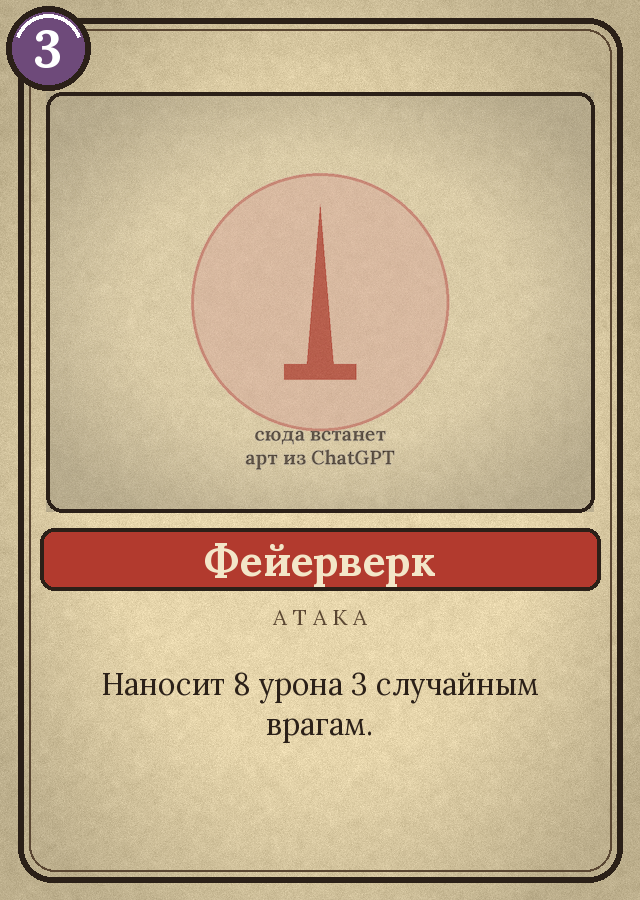
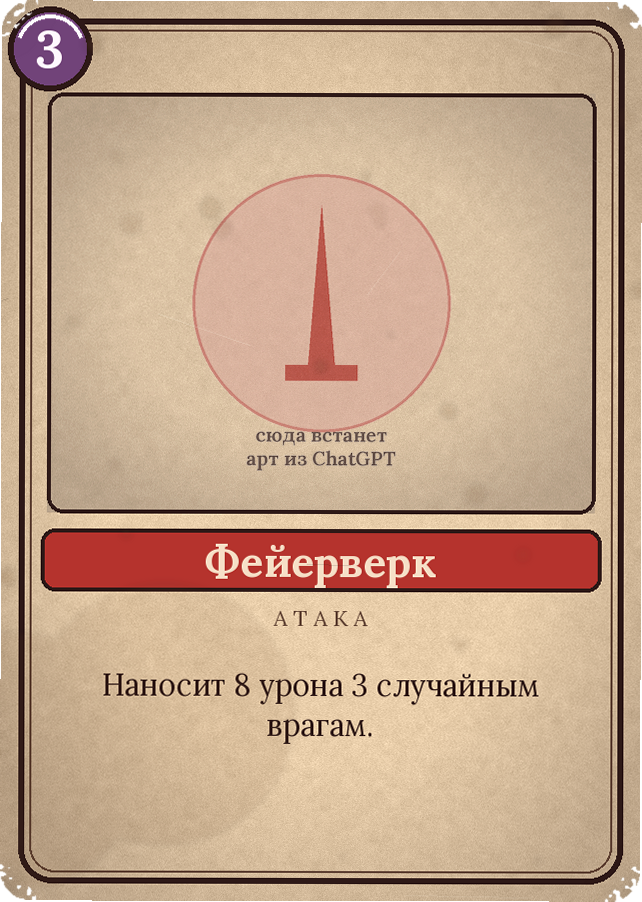
Add wear/distress and shop showcase to style-forge
- Per-card deterministic distress (seeded by card id): foxing spots,
  stains, scratches, darkened worn edges and frayed rounded corners,
  plus a small paper-tone jitter and slight rotation so no two cards
  look like identical stamps.
- New `shop` command: renders priced cards on a procedural wooden
  shelf, each tilted on a stand with a coin price plate underneath,
  matching the reference shop screen.
- Price moved off the card face (shown only on the shop plate).

diff --git a/style-forge/forge.py b/style-forge/forge.py
@@ -17,8 +17,9 @@ style-forge — инструмент единого стиля для карто
 import argparse
 import json
 import os
+import zlib
 import numpy as np
-from PIL import Image, ImageDraw, ImageFont
+from PIL import Image, ImageDraw, ImageFont, ImageFilter
 
 HERE = os.path.dirname(os.path.abspath(__file__))
 
@@ -121,6 +122,108 @@ def fit_contain(img, box):
     return img.resize((max(1, int(iw * s)), max(1, int(ih * s))), Image.LANCZOS)
 
 
+# ────────────────────────────────────────────────────────── износ
+
+def card_seed(card):
+    """Стабильный сид на карту → каждая портится по-своему, но воспроизводимо."""
+    return zlib.crc32(card["id"].encode()) & 0xFFFFFFFF
+
+
+def rounded_mask(w, h, r):
+    m = Image.new("L", (w, h), 0)
+    ImageDraw.Draw(m).rounded_rectangle([0, 0, w - 1, h - 1], radius=r, fill=255)
+    return m
+
+
+def fray_edges(mask, strength):
+    """Отгрызает случайные кусочки по краю маски — рваная бумага."""
+    w, h = mask.size
+    m = np.asarray(mask).astype(np.float32) / 255.0
+    blur = np.asarray(mask.filter(ImageFilter.GaussianBlur(8))).astype(np.float32) / 255.0
+    band = (blur > 0.03) & (blur < 0.97)
+    small = np.random.rand(max(2, h // 4), max(2, w // 4))
+    noise = np.asarray(Image.fromarray((small * 255).astype("uint8")).resize((w, h))).astype(np.float32) / 255.0
+    m[band & (noise < 0.5 * strength)] = 0.0
+    soft = Image.fromarray((m * 255).astype("uint8")).filter(ImageFilter.GaussianBlur(0.6))
+    return np.asarray(soft).astype(np.float32) / 255.0
+
+
+def distress(img, cfg):
+    """Пятна, разводы, царапины, тёмные потёртые края, рваный контур."""
+    w = cfg["wear"]
+    W, H = img.size
+
+    # пятна и разводы — на мягком слое
+    soft = Image.new("RGBA", (W, H), (0, 0, 0, 0))
+    sd = ImageDraw.Draw(soft)
+    sc = hex2rgb(w["spot_color"])
+    for _ in range(w["spots"]):
+        r = np.random.randint(3, 12)
+        x, y = np.random.randint(0, W), np.random.randint(0, H)
+        sd.ellipse([x - r, y - r, x + r, y + r], fill=sc + (int(np.random.randint(18, 50)),))
+    st = hex2rgb(w["stain_color"])
+    for _ in range(w["stains"]):
+        R = np.random.randint(70, 140)
+        x = np.random.randint(0, W // 3) if np.random.rand() < 0.5 else np.random.randint(2 * W // 3, W)
+        y = np.random.randint(0, H // 3) if np.random.rand() < 0.5 else np.random.randint(2 * H // 3, H)
+        sd.ellipse([x - R, y - R, x + R, y + R], fill=st + (int(np.random.randint(12, 26)),))
+    img = Image.alpha_composite(img, soft.filter(ImageFilter.GaussianBlur(3)))
+
+    # царапины — тонкие резкие линии
+    scr = Image.new("RGBA", (W, H), (0, 0, 0, 0))
+    cd = ImageDraw.Draw(scr)
+    for _ in range(w["scratches"]):
+        x1, y1 = np.random.randint(0, W), np.random.randint(0, H)
+        x2, y2 = x1 + np.random.randint(-130, 130), y1 + np.random.randint(-45, 45)
+        a = int(np.random.randint(22, 46))
+        col = (255, 250, 235, a) if np.random.rand() < 0.5 else (28, 20, 12, a)
+        cd.line([x1, y1, x2, y2], fill=col, width=1)
+    img = Image.alpha_composite(img, scr)
+
+    # тёмные потёртые края + рваный контур
+    arr = np.asarray(img).astype(np.float32)
+    ring = 1.0 - np.asarray(rounded_mask(W, H, w["corner_radius"]).filter(
+        ImageFilter.GaussianBlur(15))).astype(np.float32) / 255.0
+    arr[..., :3] *= (1 - w["edge_darken"] * ring[..., None])
+    arr[..., 3] *= fray_edges(rounded_mask(W, H, w["corner_radius"]), w["fray"])
+    return Image.fromarray(np.clip(arr, 0, 255).astype("uint8"), "RGBA")
+
+
+# ────────────────────────────────────────────────────────── дерево (магазин)
+
+def make_wood(w, h, cfg):
+    s = cfg["shop"]
+    top, bot = np.array(hex2rgb(s["wood_top"]), np.float32), np.array(hex2rgb(s["wood_bottom"]), np.float32)
+    yy = np.linspace(0, 1, h)[:, None, None]
+    img = np.repeat(top * (1 - yy) + bot * yy, w, axis=1)
+    img += np.random.normal(0, 6, (h, w, 1))                       # зерно
+    img += np.random.normal(0, 1, (1, w, 1)) * 5                   # вертикальные волокна
+    for py in range(70, h, 96):                                    # стыки досок
+        img[py:py + 2, :, :] *= 0.55
+    xx = np.linspace(-1, 1, w)[None, :, None]
+    yv = np.linspace(-1, 1, h)[:, None, None]
+    glow = np.clip(1 - np.sqrt(xx ** 2 + (yv + 0.5) ** 2), 0, 1)[..., None]
+    img += glow[..., 0] * np.array(hex2rgb(s["glow"]), np.float32) * 0.28
+    return Image.fromarray(np.clip(img, 0, 255).astype("uint8"), "RGB").convert("RGBA")
+
+
+def draw_price_plate(base, cx, top, price, cfg):
+    d = ImageDraw.Draw(base, "RGBA")
+    pw, ph = 152, 62
+    x0, y0 = cx - pw // 2, top
+    d.rounded_rectangle([x0, y0, x0 + pw, y0 + ph], radius=14,
+                        fill=hex2rgb(cfg["shop"]["plate_color"]) + (240,), outline=(18, 12, 7), width=3)
+    cy = y0 + ph // 2
+    cr = 19
+    coin_x = x0 + 34
+    d.ellipse([coin_x - cr, cy - cr, coin_x + cr, cy + cr], fill=hex2rgb(cfg["coin_color"]), outline=(18, 12, 7), width=3)
+    d.ellipse([coin_x - cr + 6, cy - cr + 6, coin_x + cr - 6, cy + cr - 6], outline=(18, 12, 7), width=2)
+    f = font(cfg, "number", 34)
+    s = str(price)
+    asc, desc = f.getmetrics()
+    d.text((coin_x + cr + 12, cy - (asc + desc) / 2), s, font=f, fill=(240, 224, 190))
+
+
 # ────────────────────────────────────────────────────────── плейсхолдер
 
 def placeholder_subject(card, cfg, size=760):
@@ -189,6 +292,7 @@ def draw_coin(base, x, y, r, number, cfg):
 # ────────────────────────────────────────────────────────── карта
 
 def make_card(card, subject, cfg):
+    np.random.seed(card_seed(card))          # каждая карта портится по-своему
     W, H = cfg["card"]["width"], cfg["card"]["height"]
     ink = hex2rgb(cfg["card"]["ink"])
     ink_soft = hex2rgb(cfg["card"]["ink_soft"])
@@ -243,11 +347,13 @@ def make_card(card, subject, cfg):
     ecol = cfg["energy_colors"].get(str(card["cost"]), cfg["energy_colors"]["default"])
     draw_gem(img, m + 30, m + 30, 42, card["cost"], ecol, cfg)
 
-    # цена (монета справа снизу), если есть
-    if "price" in card:
-        draw_coin(img, W - m - 40, H - m - 40, 40, card["price"], cfg)
+    # лёгкий сдвиг тона на карту — чтобы бумага не была одинаковой у всех
+    jit = cfg["wear"]["tone_jitter"]
+    arr = np.asarray(img).astype(np.float32)
+    arr[..., :3] += np.random.uniform(-jit, jit, 3)
+    img = Image.fromarray(np.clip(arr, 0, 255).astype("uint8"), "RGBA")
 
-    return img
+    return distress(img, cfg)
 
 
 # ────────────────────────────────────────────────────────── команды
@@ -277,22 +383,59 @@ def cmd_prompts(cfg, cat, args):
     print(f"Готово: {len(cat['cards'])} промптов в prompts/ (см. prompts/ALL.md)")
 
 
+def render_card(card, cfg):
+    """Собирает готовую (потрёпанную) карту. Берёт арт из inbox/ или плейсхолдер."""
+    inbox = os.path.join(HERE, "inbox", f"{card['id']}.png")
+    if os.path.exists(inbox):
+        return make_card(card, Image.open(inbox).convert("RGBA"), cfg), "арт"
+    return make_card(card, placeholder_subject(card, cfg), cfg), "плейсхолдер"
+
+
 def cmd_build(cfg, cat, args):
     os.makedirs(os.path.join(HERE, "output"), exist_ok=True)
     cards = [c for c in cat["cards"] if not args.card or c["id"] == args.card]
     if not cards:
         print(f"Карта '{args.card}' не найдена в catalog.json")
         return
+    mrot = cfg["wear"]["max_rotation"]
     for card in cards:
-        inbox = os.path.join(HERE, "inbox", f"{card['id']}.png")
-        if os.path.exists(inbox):
-            subject, tag = Image.open(inbox).convert("RGBA"), "арт"
-        else:
-            subject, tag = placeholder_subject(card, cfg), "плейсхолдер"
-        out = os.path.join(HERE, "output", f"{card['id']}.png")
-        make_card(card, subject, cfg).save(out)
+        img, tag = render_card(card, cfg)
+        angle = np.random.default_rng(card_seed(card)).uniform(-mrot, mrot)  # чуть наклонена
+        img = img.rotate(angle, expand=True, resample=Image.BICUBIC)
+        img.save(os.path.join(HERE, "output", f"{card['id']}.png"))
         print(f"  ✓ {card['name']:<14} [{tag}] → output/{card['id']}.png")
     print("Готово.")
+
+
+def cmd_shop(cfg, cat, args):
+    """Витрина магазина: карты с ценой стоят на деревянной полке с ценниками."""
+    os.makedirs(os.path.join(HERE, "output"), exist_ok=True)
+    priced = [c for c in cat["cards"] if "price" in c]
+    if not priced:
+        print("В catalog.json нет карт с полем 'price'.")
+        return
+    CW = cfg["shop"]["card_width"]
+    scale = CW / cfg["card"]["width"]
+    CH = int(cfg["card"]["height"] * scale)
+    pad = 46
+    W = pad + len(priced) * (CW + pad)
+    H = CH + 250
+    canvas = make_wood(W, H, cfg)
+    tilts = cfg["shop"]["tilts"]
+    for i, card in enumerate(priced):
+        img, _ = render_card(card, cfg)
+        img = img.resize((CW, CH), Image.LANCZOS).rotate(tilts[i % len(tilts)], expand=True, resample=Image.BICUBIC)
+        cx = pad + i * (CW + pad) + CW // 2
+        x, y = cx - img.width // 2, 40
+        # мягкая тень под картой
+        shadow = Image.new("RGBA", canvas.size, (0, 0, 0, 0))
+        ImageDraw.Draw(shadow).ellipse([cx - CW // 2, y + CH - 30, cx + CW // 2, y + CH + 40], fill=(0, 0, 0, 90))
+        canvas = Image.alpha_composite(canvas, shadow.filter(ImageFilter.GaussianBlur(12)))
+        canvas.paste(img, (x, y), img)
+        draw_price_plate(canvas, cx, y + img.height - 6, card["price"], cfg)
+        print(f"  ✓ {card['name']:<14} — {card['price']}◎")
+    canvas.convert("RGB").save(os.path.join(HERE, "output", "shop.png"))
+    print("Витрина → output/shop.png")
 
 
 def main():
@@ -303,8 +446,9 @@ def main():
     sub.add_parser("prompts", help="сгенерить промпты для ChatGPT")
     b = sub.add_parser("build", help="собрать карты")
     b.add_argument("--card", help="id одной карты")
+    sub.add_parser("shop", help="собрать витрину магазина")
     args = ap.parse_args()
-    {"prompts": cmd_prompts, "build": cmd_build}[args.cmd](cfg, cat, args)
+    {"prompts": cmd_prompts, "build": cmd_build, "shop": cmd_shop}[args.cmd](cfg, cat, args)
 
 
 if __name__ == "__main__":
